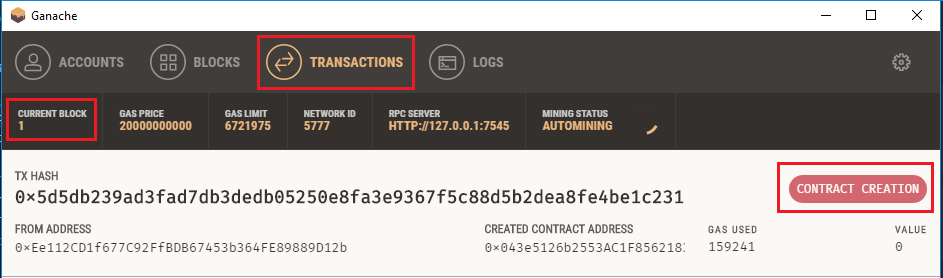
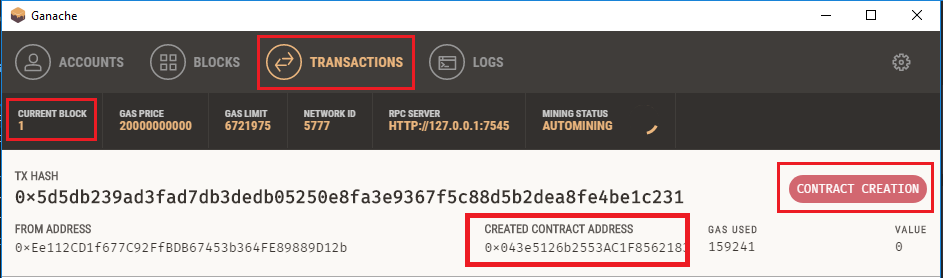
completed article

Changed region(s): [[0.492, 0.7482, 0.7381, 0.9784]]

diff --git a/Create-Your-First-Smart-Contract-Ganache-Remix-IDE-Ethereum/ReadMe.md b/Create-Your-First-Smart-Contract-Ganache-Remix-IDE-Ethereum/ReadMe.md
@@ -1,4 +1,4 @@
-# Create Your  First Smart Contract In Ethereum With Ganache & Remix IDE
+# Create & Test Your  First Ethereum Smart Contract In Simplest Way Possible
 
 ![Ethereum-Banner](assets/Ethereum-Banner.jpg)
 
@@ -92,7 +92,7 @@ Your code is compiled successfully, now let's deploy & test it.
 
 ## Deploy Smart Contract to Private Ethereum Blockcahin & Test It
 
-We will deploy it to blockchain running in Ganache with the help of MyEtherWallet. Open Ganache and grab `RPC SERVER` URL.
+We will deploy it to blockchain running in Ganache with the help of MyEtherWallet. Open Ganache and grab `RPC SERVER` URL. 
 
 ![Ganache_RPC](assets/Ganache_RPC.png)
 
@@ -144,3 +144,98 @@ After adding byte code and giving wallet access, hit Sign Transaction button, th
 Let's verify in Ganache whether it's deployed successfully. Goto Transactions in Ganache, you can here one `Contract Creation` transaction created in a block. Congrats! your smart contract is deployed successfully.
 
 ![Contract_Created_Ganache](assets/Contract_Created_Ganache.png)
+
+Let's test it now, click to open above shown transaction & copy **CREATED CONTRACT ADDRESS**. Goto MyEtherWallet & under Contracts, click Interact with Contract, paste the Contract Address here. 
+
+![Interact_To_Contract](assets/Interact_To_Contract.png)
+
+For ABI interface you need to go to Remix IDE then details, get ABI form here and paste. ABI interface contains information about functions available in smart contract.
+
+![Copy_ABI](assets/Copy_ABI.png)
+
+```json
+[
+	{
+		"constant": false,
+		"inputs": [
+			{
+				"name": "a",
+				"type": "int256"
+			},
+			{
+				"name": "b",
+				"type": "int256"
+			}
+		],
+		"name": "Subtract",
+		"outputs": [
+			{
+				"name": "",
+				"type": "int256"
+			}
+		],
+		"payable": false,
+		"stateMutability": "nonpayable",
+		"type": "function"
+	},
+	{
+		"constant": false,
+		"inputs": [
+			{
+				"name": "a",
+				"type": "int256"
+			},
+			{
+				"name": "b",
+				"type": "int256"
+			}
+		],
+		"name": "Add",
+		"outputs": [
+			{
+				"name": "",
+				"type": "int256"
+			}
+		],
+		"payable": false,
+		"stateMutability": "nonpayable",
+		"type": "function"
+	},
+	{
+		"constant": true,
+		"inputs": [],
+		"name": "LastOperation",
+		"outputs": [
+			{
+				"name": "",
+				"type": "int256"
+			}
+		],
+		"payable": false,
+		"stateMutability": "view",
+		"type": "function"
+	}
+]
+```
+
+After clicking Access, you can see all available functions in your smart contract.
+
+![Access_Contract](assets/Access_Contract.png)
+
+Let's call them & test.
+
+![Call_Add](assets/Call_Add.png)
+
+While calling Add or Subtract, it will show a warning before making transaction, along with gas limit.
+
+![Add_Warning](assets/Add_Warning.png)
+
+But in LastOperation no warning will appear. Because it adds no data to blockchain.
+
+![LastOperation](assets/LastOperation.png) 
+
+All those transactions you can see in Ganache, along with gas used.
+
+![Transactions](assets/Transactions.png)
+
+> Hope it helps 😀
